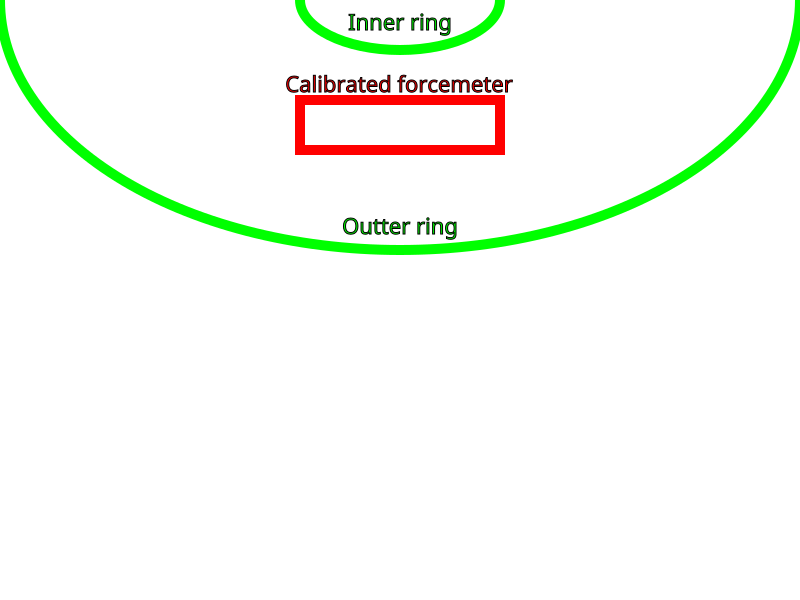
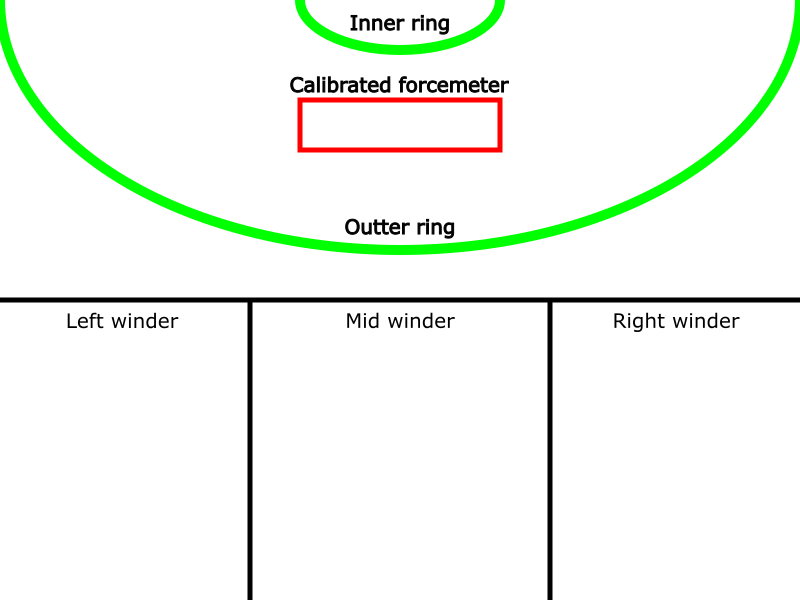
Update
Home PC

diff --git a/HRT.py b/HRT.py
@@ -8,10 +8,12 @@ from threading import Thread
 from queue import Queue
 # from labjack_unified.devices import LabJackU6
 from time import sleep
+from tkinter import *
+
 
 class stepper(Thread):
     # stepper is a thread, running a state machine
-    def __init__(self, lj, DO = [0, 1, 2, 3], delay = 0.00002, name = "Stepper"):
+    def __init__(self, lj, DO = [0, 1, 2, 3], delay = 0.000015, name = "Stepper"):
         Thread.__init__(self) #thread initiation - must be started externaly by self.start()
 
         # set up variables
@@ -29,11 +31,15 @@ class stepper(Thread):
         for pin in range(4):
             pin = -pin # *
             # microstep
-            self.lj.setDOState(self.DO[pin%len(self.DO)], 1)
+            self.lj.setDOState(self.DO[pin % 4], 1)
+            print("turn on pin", pin % 4)
             sleep(self.delay)
-            self.lj.setDOState(self.DO[(pin - 1) % len(self.DO)], 1) # * 
+            self.lj.setDOState(self.DO[(pin - 1) % 4], 1) # *
+            print("turn on pin", (pin - 1) % 4) 
             sleep(self.delay)
-            self.lj.setDOState(self.DO[pin%len(self.DO)], 0)
+            self.lj.setDOState(self.DO[pin % 4], 0)
+            print("turn off pin", pin % 4)
+            
             sleep(self.delay)
         self.lj.setDOState(self.DO[0], 0)
         
@@ -51,26 +57,29 @@ class stepper(Thread):
             for pin in range(4):
                 pin = s * pin
                 # microstep
-                self.lj.setDOState(self.DO[pin % len(self.DO)], 1)
+                self.lj.setDOState(self.DO[pin % 4], 1)
                 sleep(self.delay)
-                self.lj.setDOState(self.DO[(pin + s * 1) % len(self.DO)], 1)
+                self.lj.setDOState(self.DO[(pin + s * 1) % 4], 1)
                 sleep(self.delay)
-                self.lj.setDOState(self.DO[pin % len(self.DO)], 0)
+                self.lj.setDOState(self.DO[pin % 4], 0)
                 sleep(self.delay)
+
             self.x_cur += s
     
     def chase(self):
         # stepper will go to self.x_set
         while self.state == "chase": # chase loop - can be externally stopped by changing state
-            #decide direction 
+            # decide direction 
             if self.x_set > self.x_cur:
                 s = 1
-            else: 
+            elif self.x_set < self.x_cur: 
                 s = -1
-
+            
             if self.x_set == self.x_cur: # stepper is on x_set            
                 self.zero() # set all pins zero
+                print ("", end="\r")
                 print(self.name, "is at x =", self.x_cur) # report position / end of process
+                print(">:")
                 # leave chase loop and set state to "idle"
                 self.state = "idle"
                 break
@@ -95,8 +104,9 @@ class stepper(Thread):
                 break
 
     def cmd(self, cmd):
-        # send cmd to queue 
-        self.qu.put(cmd) 
+        # send cmd to queue
+        if cmd != self.state:
+            self.qu.put(cmd)
         # stop loops inside state machine
         if cmd == "stop": self.state = "stop" # self.stop() is owned by Thread class
     
@@ -109,3 +119,30 @@ class stepper(Thread):
         # move to absolute position
         self.x_set = x
         self.cmd("chase")
+
+class GUI(Tk):
+    def __init__(self):
+        Tk.__init__(self)
+        self.geometry('800x600-0+0')
+        self.resizable(width=False, height=False)
+        self.title("HRT")
+        self.img = PhotoImage(file='scheme.png')
+        scheme = Label(self, image=self.img)
+        scheme.place(x=0, y=0)
+        self.calibrated_force_value = StringVar()
+        self.calibrated_force_value.set('None')
+        self.x = 0
+        calibrated_force_label = Label(self, 
+            textvariable=self.calibrated_force_value,
+            anchor=S,
+            font=("sans-serif", 18),
+
+        ).place(x=400, y=125, anchor='center')
+
+
+        but1 = Button(self, text="blah",command=self.blah ).place(x=0,y=0)
+        but2 = Button(self, text="quit",command=self.quit ).place(x=50, y=10)
+    def blah(self):
+        self.calibrated_force_value.set("%.3f N"%(self.x))
+        self.x+=0.12
+

diff --git a/GUI.py b/GUI.py
@@ -20,7 +20,7 @@ class GUI(Tk):
             font=("sans-serif", 18),
 
         ).place(x=400, y=125, anchor='center')
-
+        self.winders = {}
 
 
         but1 = Button(self, text="blah",command=self.blah ).place(x=0,y=0)
@@ -28,6 +28,22 @@ class GUI(Tk):
     def blah(self):
         self.calibrated_force_value.set("%.3f N"%(self.x))
         self.x+=0.12
+
+class winder():
+    def winder(self, pos = 'mid'):
+        thiswinder = []
+        if pos == 'mid':
+            x = 400
+        elif pos == 'left':
+            x = 125
+        elif pos == 'right':
+            x = -125
+        else:
+            print("Wrong winer position")
+            return 1
+
+        
+            
 
 
 if __name__ == '__main__':

diff --git a/stepper-controll.py b/stepper-controll.py
@@ -8,6 +8,7 @@ from HRT import stepper
 if __name__ == '__main__':
     # Initialization of LabJackU6 and stepper module
     lj= U6()
+    
 
     stpr = stepper(lj= lj)
     stpr.start()
@@ -16,6 +17,7 @@ if __name__ == '__main__':
     while True:
         cmd = input(">: ")
         if cmd == "stop":
+            stpr.cmd(cmd)
             break
         
         try:

diff --git a/main.py b/main.py
@@ -1,0 +1,7 @@
+from HRT import *
+if __name__ == '__main__':
+
+    # Add image file
+    
+    gui = GUI()
+    gui.mainloop()
